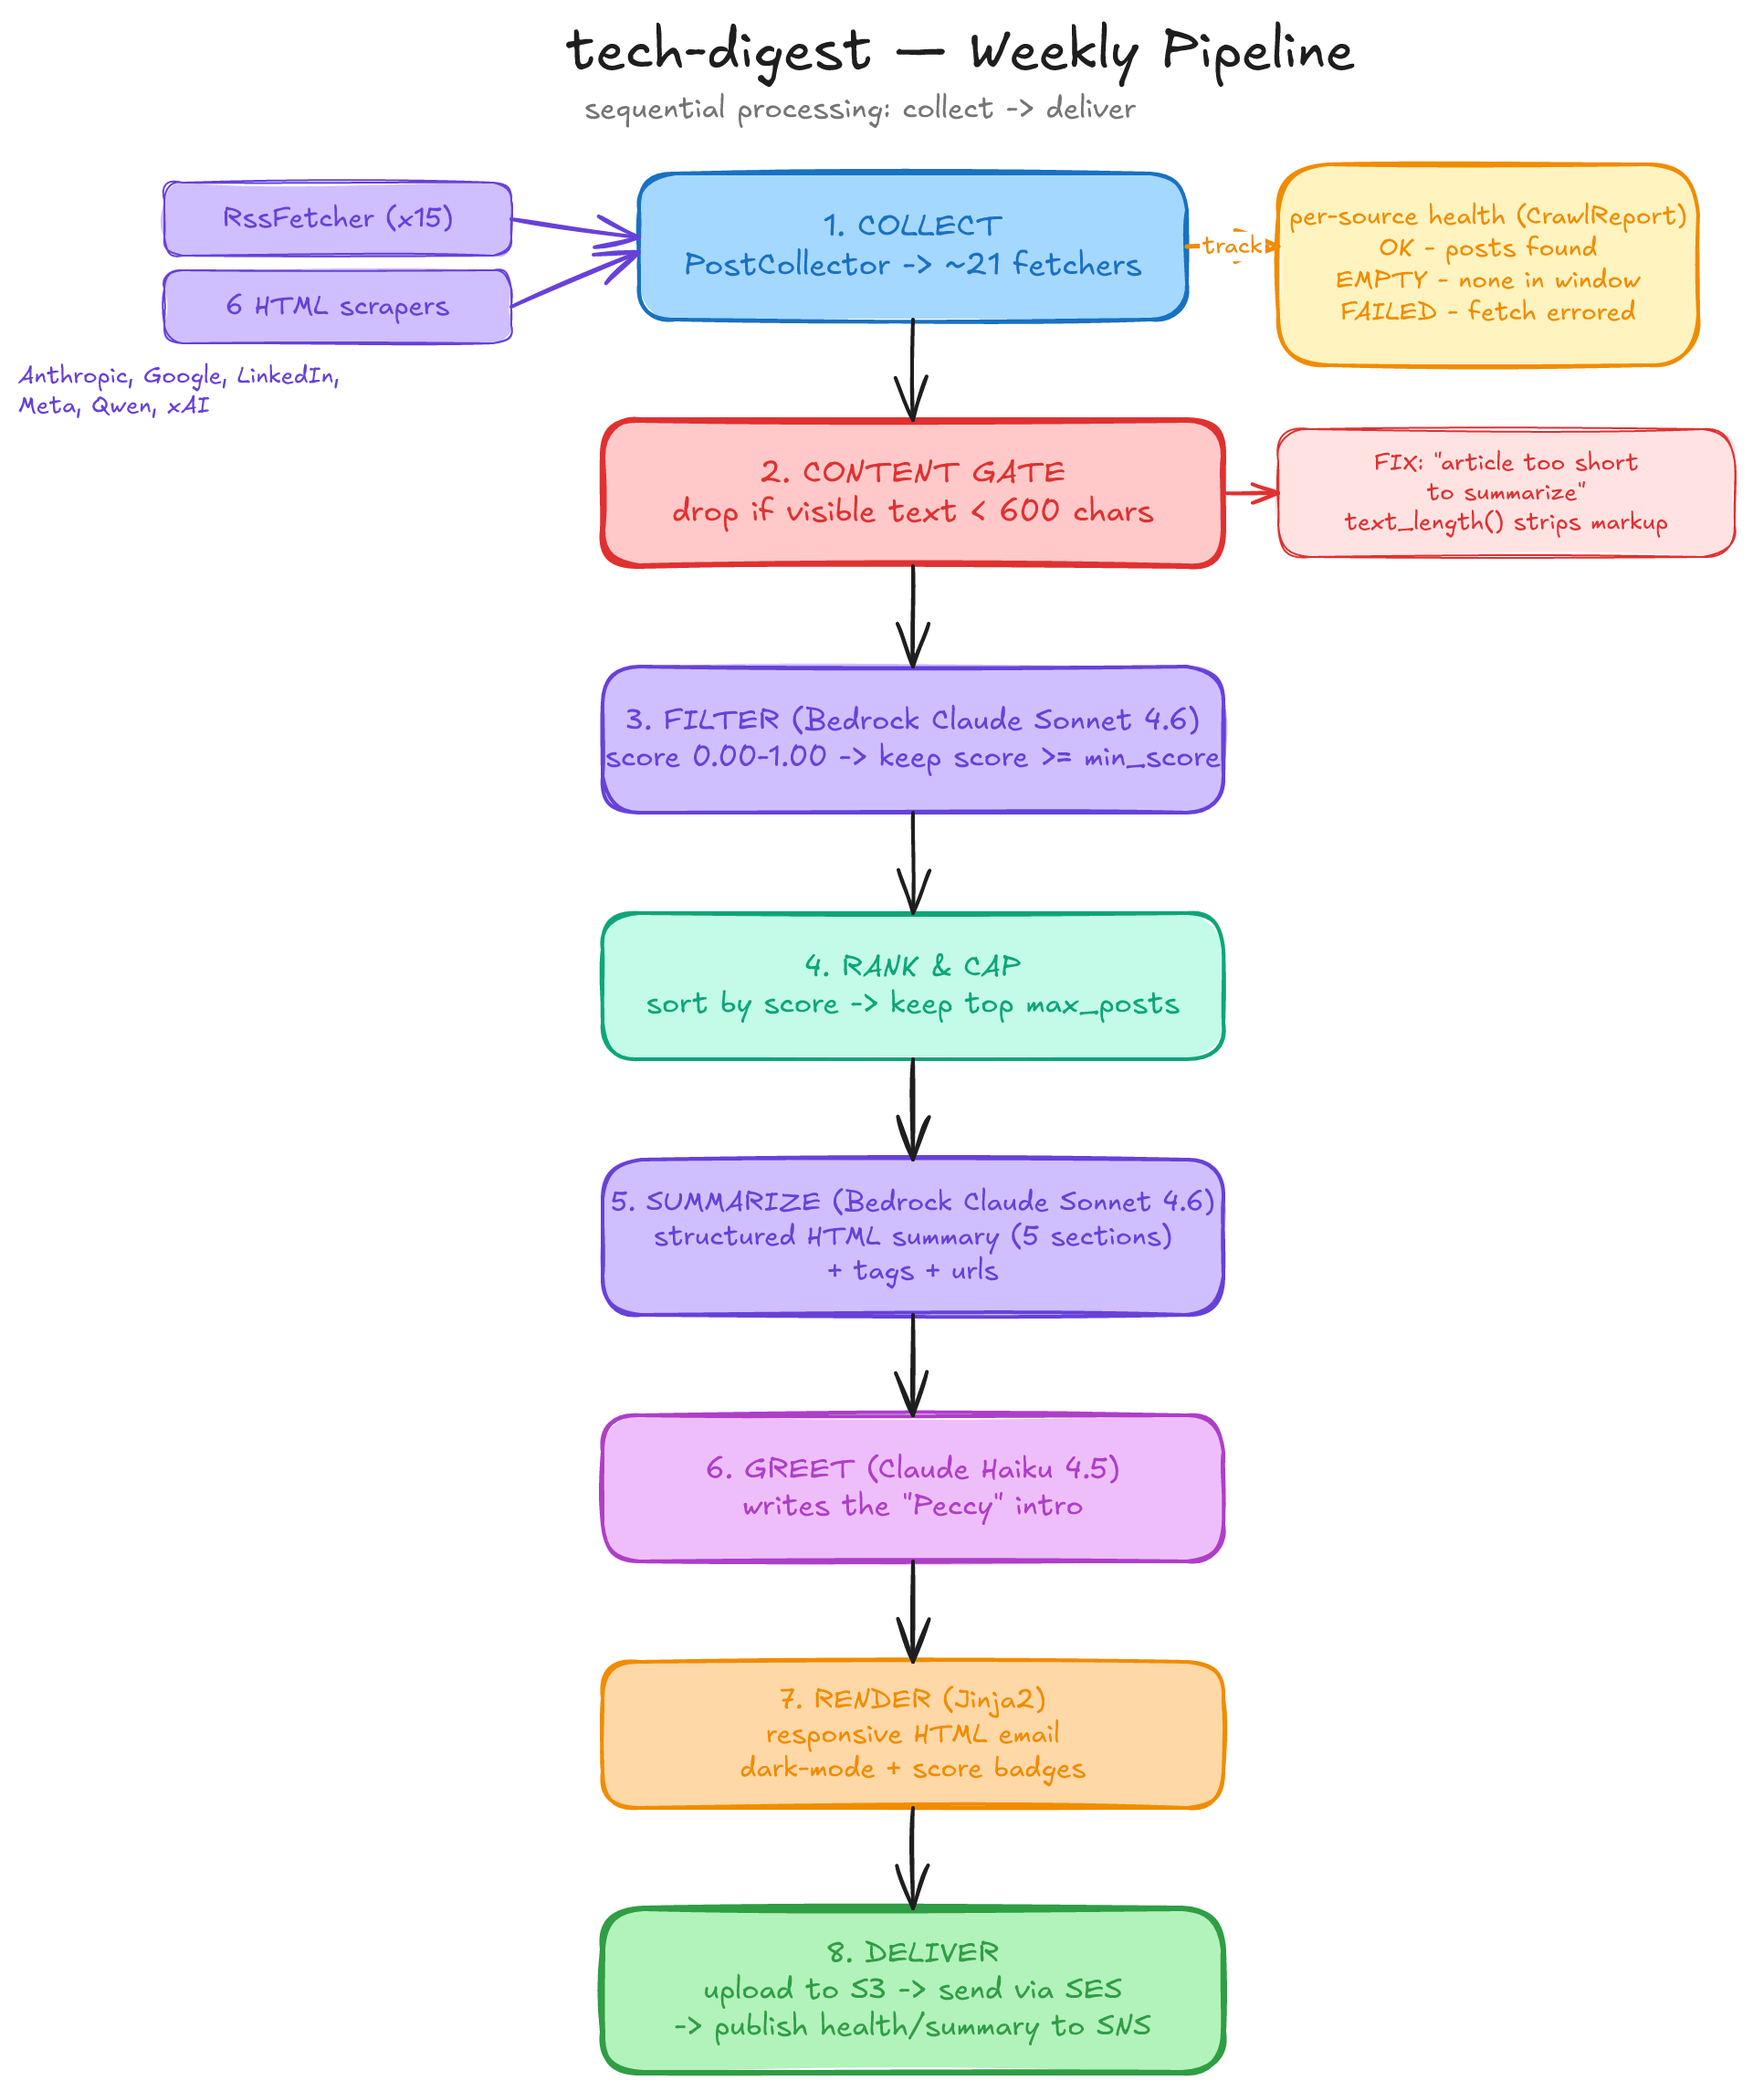
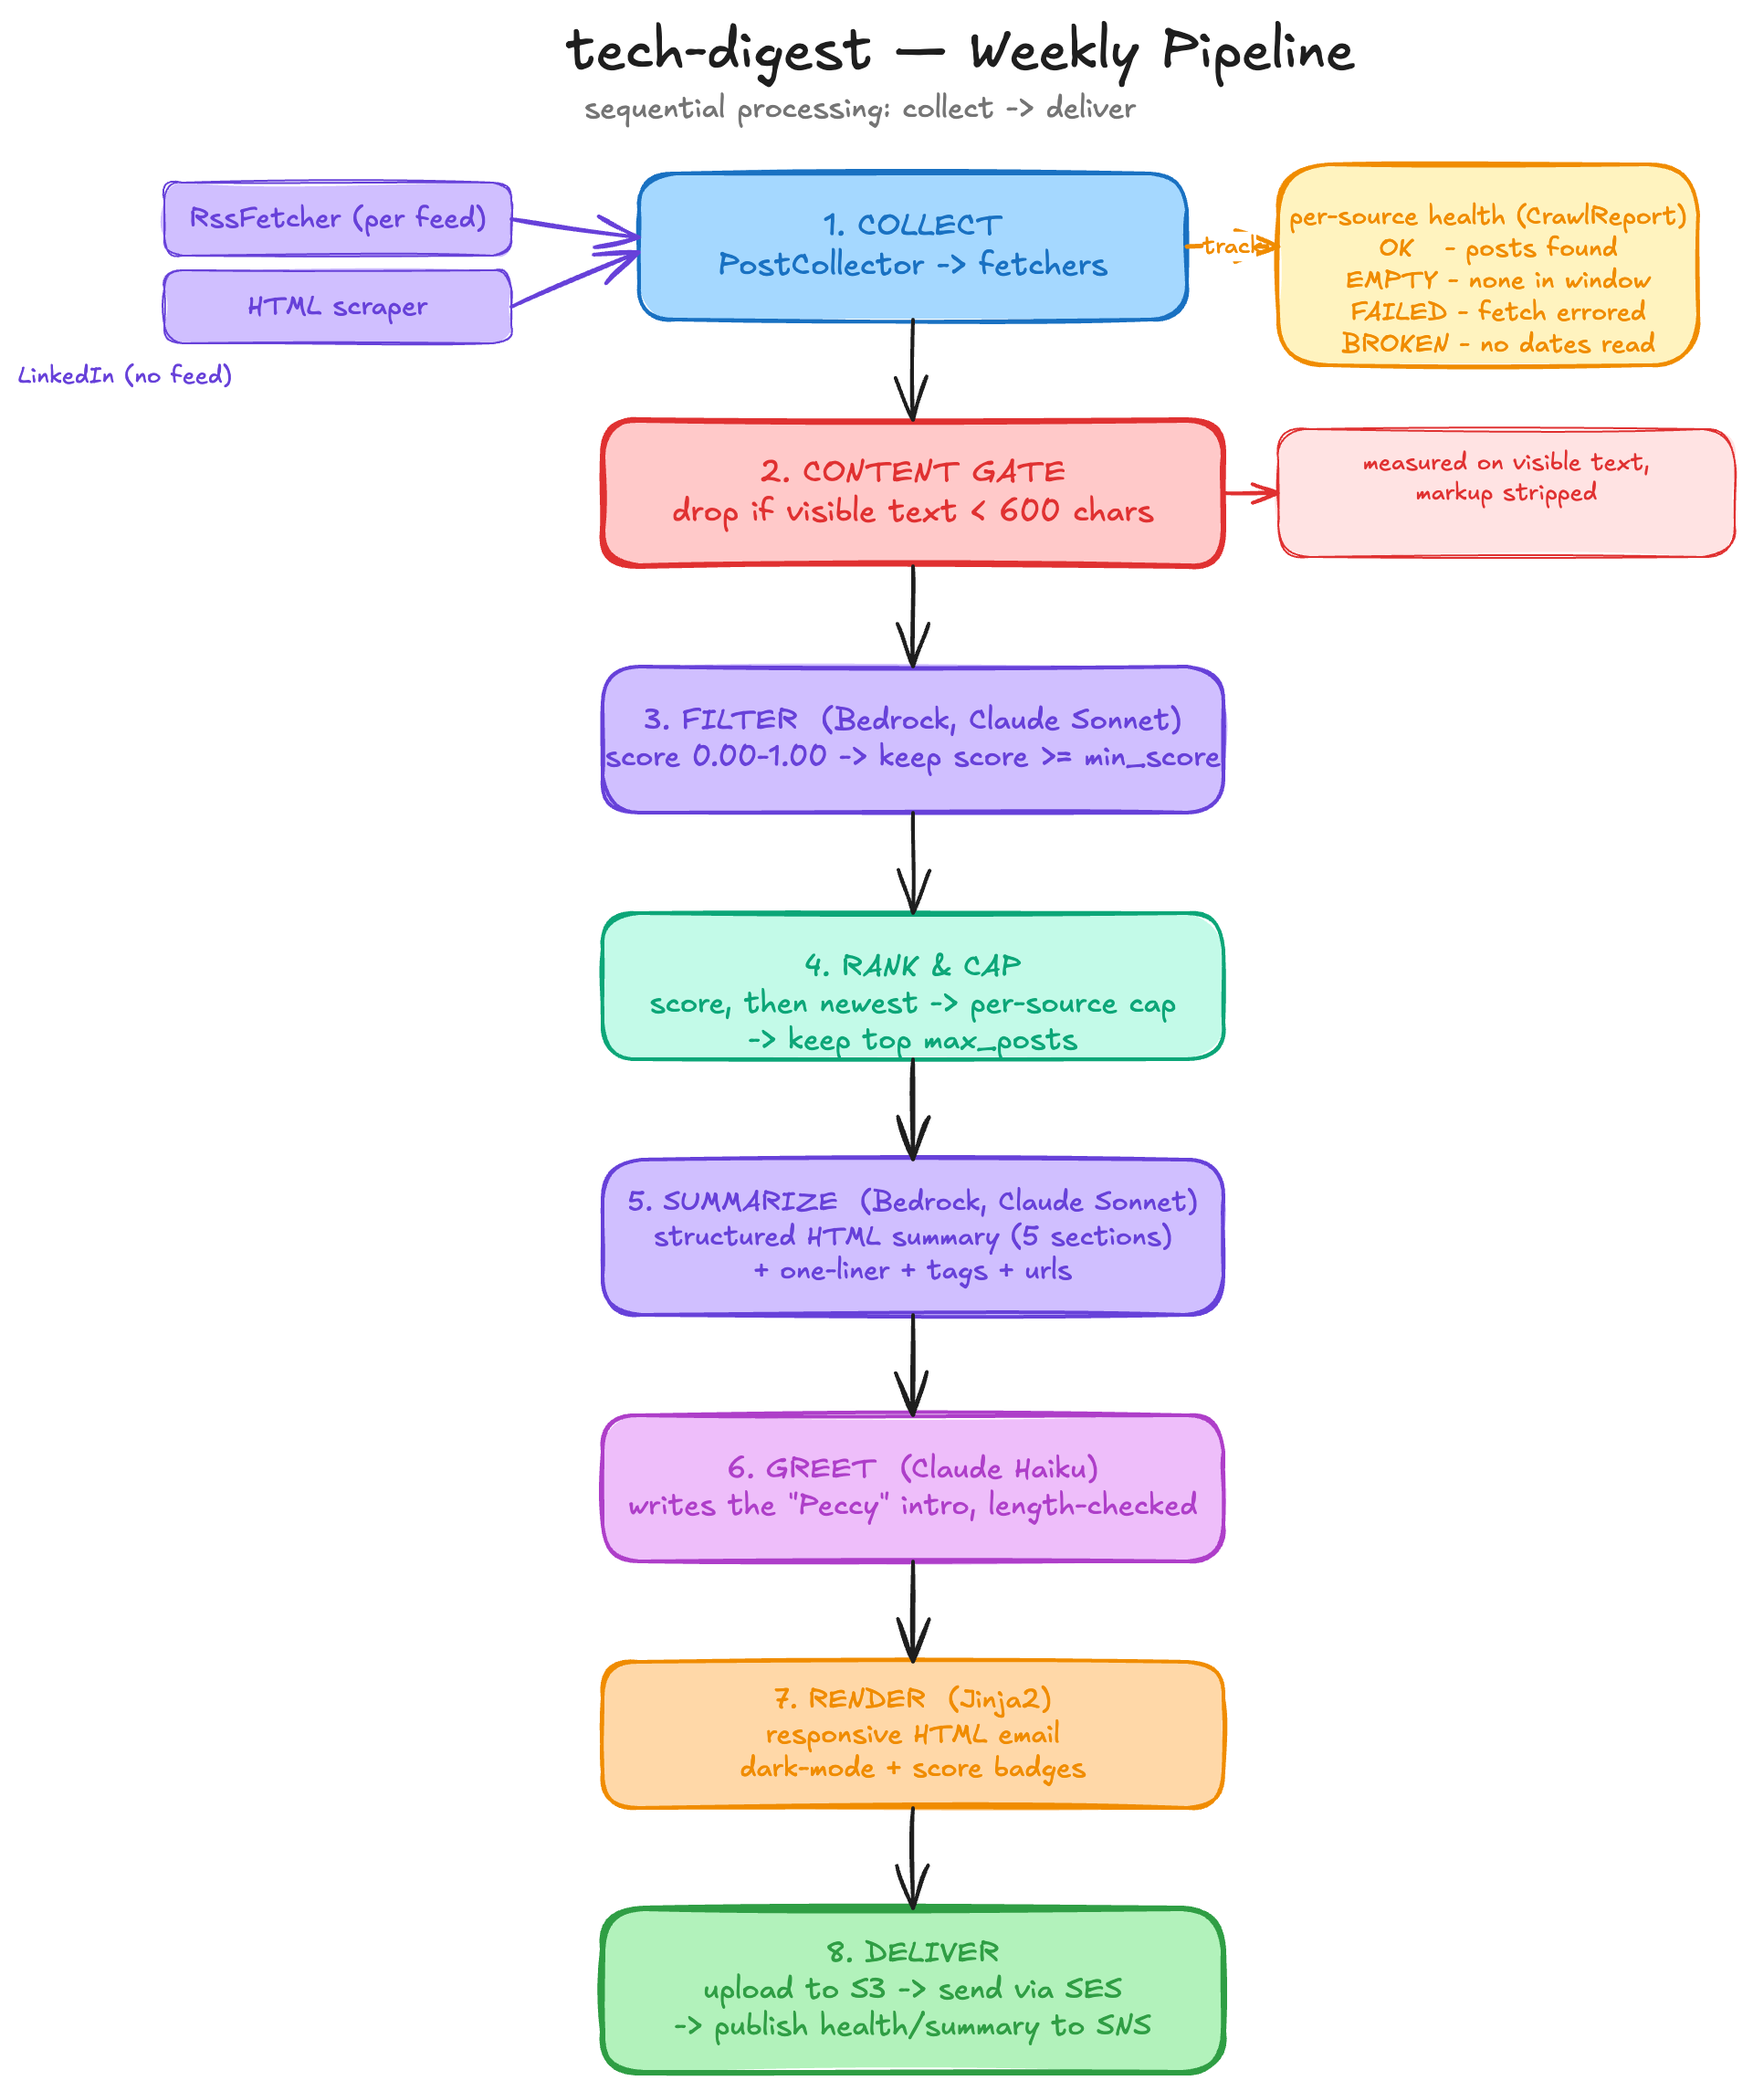
docs: redraw diagrams; document suppression skipping and the LinkedIn source

diff --git a/docs/design.md b/docs/design.md
@@ -223,8 +223,9 @@ tech-digest/
   배포된 두 스테이지는 Sonnet 5.5 / Sonnet 5.5 / Haiku 5.5를 씁니다.
 - `filtering_enable_thinking` / `summarization_enable_thinking`(기본 False): 해당
   단계에서 확장 사고(extended thinking)를 켭니다.
-- `filtering_thinking_budget_tokens`(기본 4096) / `summarization_thinking_budget_tokens`
-  (기본 8192): 예산형 사고 모델(Claude 4.x 이하)에만 쓰입니다.
+- `filtering_thinking_budget_tokens` / `summarization_thinking_budget_tokens`(기본 비움 =
+  팩토리 기본 4096): 예산형 사고 모델(Claude 4.x 이하)에만 쓰입니다. 적응형 사고 모델에
+  값을 직접 넣으면 무시된다는 경고만 남기므로, 배포된 두 스테이지는 이 키를 두지 않습니다.
 - `thinking_effort`(기본 비움): 적응형 사고 모델과 GPT 모델의 사고 깊이
   (`low`·`medium`·`high`·`xhigh`·`max`). 비우면 모델 기본값입니다(§8).
 - `summarization_max_tokens`(선택): 요약 출력 토큰 상한. 비우면 모델 최대치입니다.
@@ -335,7 +336,10 @@ tech-digest/
   `ITEM_SELECTOR`를 정하고 카드 하나를 엔트리로 바꾸는 `_parse_item`만 구현합니다.
   날짜는 `_parse_date`로 읽는데, 이 메서드가 날짜를 읽은 카드 수를 세어 `candidates`로
   보고합니다(§7).
-- 서브클래스는 지금 `LinkedInBlogScraper` 하나입니다(LinkedIn 엔지니어링 블로그).
+- 서브클래스는 지금 `LinkedInBlogScraper` 하나입니다(LinkedIn 엔지니어링 블로그, dev
+  소스). 인덱스는 긴 제목을 "..."로 자르고 전체 제목은 글 페이지에만 있어서, 기간 안에 든
+  글 중 제목이 잘린 것만 글 페이지의 `og:title`로 채웁니다. 페이지를 못 받으면 인덱스
+  제목을 그대로 씁니다. AWS 송신 IP에서도 인덱스와 글 페이지 모두 받아집니다.
 
 **사이트가 RSS를 내놓으면 스크레이퍼를 두지 않습니다.** 스크레이퍼는 사이트가 마크업을
 바꿀 때마다 깨지고, AWS 송신 IP를 막는 사이트에서는 아무것도 가져오지 못합니다. 피드는
@@ -1466,6 +1470,10 @@ Batch 잡 정의의 재시도(`BATCH_ATTEMPTS` 2, 즉 재시도 1회)는 `main.p
   상황(중간에 죽은 경우)에 원장이 없습니다.
 - **실패한 발송은 기록하지 않습니다.** 기록하면 재시도가 못 받은 독자를 건너뜁니다.
 - **비교는 소문자로.** 이메일 주소는 실질적으로 대소문자를 구분하지 않습니다.
+- **SES 수신 거부 목록의 주소는 건너뜁니다.** SES는 영구 반송이나 수신 거부 신고가 난
+  주소를 계정 수신 거부 목록에 올리고, 이후 그 주소로 보낸 메일은 조용히 버립니다. 그래서
+  발송 전에 목록을 한 번 읽어 해당 수신자를 건너뛰고(`DeliveryOutcome.suppressed`), 수신자
+  파일에서 지우라는 WARNING을 남깁니다. 목록을 못 읽으면 아무도 건너뛰지 않습니다.
 - **같은 실행 안의 중복도 막습니다.** 원장은 루프 전에 한 번만 읽으므로 한 실행 안의
   반복은 잡지 못합니다. 그래서 수신자 목록을 만들 때 대소문자를 무시하고 중복을 지웁니다.
 - **fail open**: 원장이 없거나 읽을 수 없거나 형태가 깨졌으면 빈 집합으로 보고
@@ -1526,8 +1534,9 @@ SSM에서 Batch 잡 큐/정의 이름을 조회하고, 파라미터를 정제한
     필요하고, 그 판정에는 `s3:prefix` 조건이 적용되지 않습니다. `s3_bucket_name`이나
     `s3_prefix`가 비어 있으면 S3를 `*`로 범위 지정하는 대신 스택이 **fail-closed**로
     실패합니다.
-  - SES: **설정된 발신자로 제한된**(`ses:FromAddress` 조건) `ses:SendRawEmail` 하나.
-    앱이 호출하는 유일한 API입니다.
+  - SES: **설정된 발신자로 제한된**(`ses:FromAddress` 조건) `ses:SendRawEmail`과, 수신
+    거부 목록을 읽는 `ses:ListSuppressedDestinations`(리소스 수준 권한이 없는 읽기 전용
+    작업).
   - SNS: 이 스택 토픽으로의 publish.
   - SSM/KMS: 이 프로젝트 파라미터 경로의 SSM 읽기와, SecureString 복호화를 위한
     `kms:Decrypt`(`kms:ViaService=ssm`으로 제한).

diff --git a/docs/CHANGELOG.md b/docs/CHANGELOG.md
@@ -9,6 +9,9 @@
 
 ### 소스 구성
 
+- **2026-10-11** LinkedIn 엔지니어링 블로그를 dev 소스에 더했습니다. AWS Batch에서 인덱스
+  6건과 글 본문을 모두 받는 것을 확인했고, 인덱스가 잘라 보여주는 제목은 글 페이지의
+  `og:title`로 채웁니다.
 - **2026-10-10** Anthropic, Meta AI, x.ai 인덱스 스크레이퍼를 지웠습니다. 세 사이트 모두 AWS
   송신 IP를 매 실행 차단해 배포된 호에 한 편도 기여하지 못했습니다. 2026-08-19 dev
   엔드투엔드 실행에서 측정한 실패 모양은 아래와 같았고, 헤더로 풀 문제가 아니라 송신 ASN을
@@ -572,3 +575,10 @@
 
 - `design.md`에서 사고 경위, 측정 회차, A/B 표를 이 파일로 옮기고, 설계 문서에는 현재 규칙과
   그 이유만 남겼습니다. 알림 설명은 `design.md`의 SNS 알림 절 한 곳으로 모았습니다.
+
+## 발송
+
+- **2026-10-11** prod 수신자 88명 중 3명이 2025-07부터 SES 계정 수신 거부 목록(영구 반송)에
+  올라 있었습니다. SES는 이들에게 1년 넘게 매주 아무것도 보내지 않고 있었습니다. 수신자
+  파일에서 지웠고(백업: `recipients-prod-2026-10-11-before-bounce-prune.txt`), 이후로는 발송
+  루프가 수신 거부 목록의 주소를 건너뛰고 WARNING으로 알립니다.
